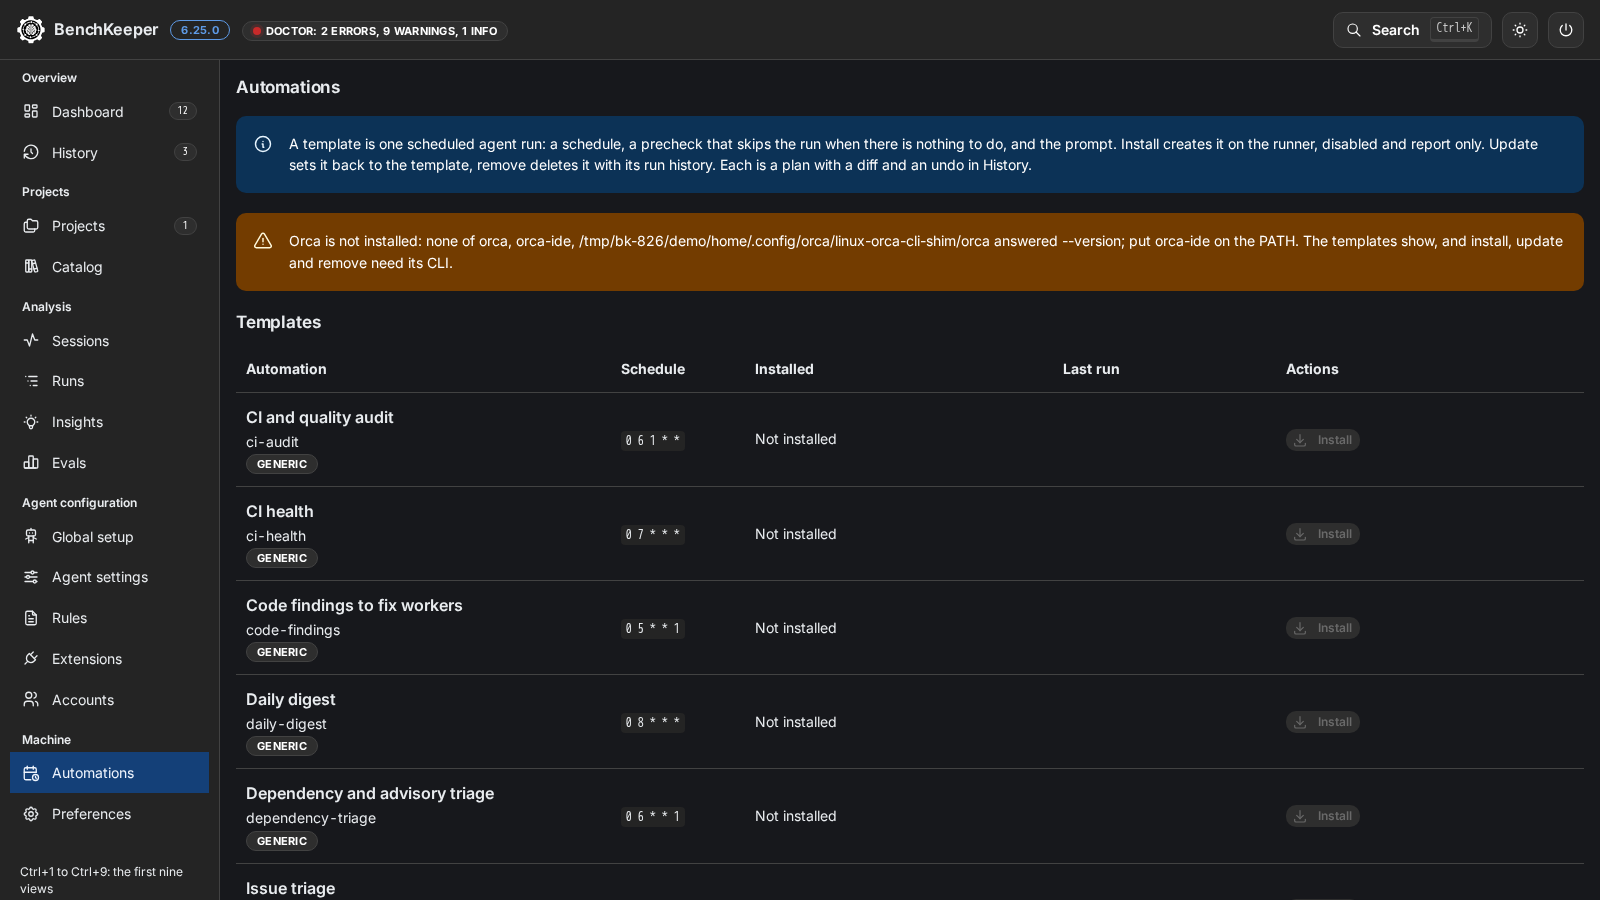
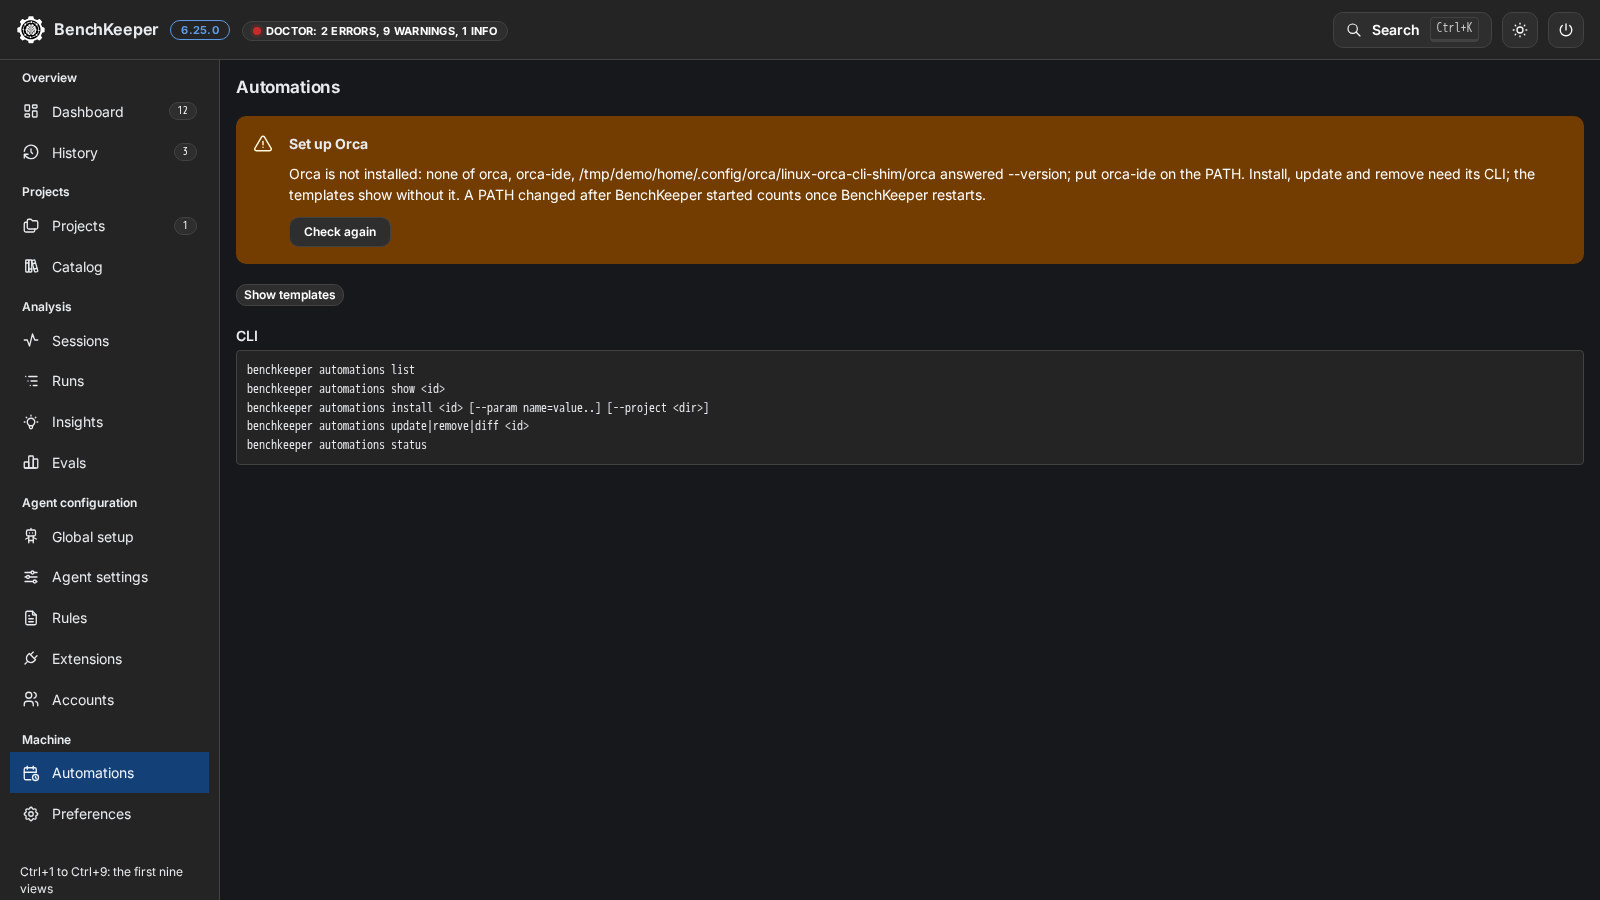
feat(app): one setup panel in Automations when the runner is missing (#845)
* feat(app): one setup panel in Automations when the runner is missing

Without the runner the view shows one panel with the runner's note (the
setup step) and a Check again button; the explanation of templates and
the templates table move behind Show templates. With the runner present
the view is unchanged.

Check again asks the server for a fresh read (fresh=1), since the
automations view is otherwise kept for 15 seconds.

Refs #808

* fix(app): focus the templates after Check again finds the runner, and note the restart a PATH change needs

Refs #808

diff --git a/app/ui/automations.jsx b/app/ui/automations.jsx
@@ -3,7 +3,7 @@ import { IconDownload, IconRefresh, IconTrash } from '@tabler/icons-react';
 import { useEffect, useRef, useState } from 'react';
 import { api } from './api.js';
 import { Cli, Plan, PlanClose, PlanDropped, Section, usePlanRunning } from './parts.jsx';
-import { Dot, Loading, Note, icon, useApi } from './shell.jsx';
+import { Dot, Folded, Loading, Note, icon, useAnnounce, useApi } from './shell.jsx';
 
 const TIER = { generic: 'generic', user: 'private' };
 const STATE = { current: ['teal', 'matches the template'], outdated: ['yellow', 'template changed'], modified: ['yellow', 'changed on the runner'], removed: ['red', 'gone from the runner'], unknown: ['gray', 'unknown'] };
@@ -78,49 +78,73 @@ export function Automations({ overview, refresh }) {
     try { const p = await api('/api/automations-plan', body); if (idle()) { setPending({ plan: p, why: `You asked to ${body.op} this automation in Automations.` }); setForm(null); } } catch (e) { setError(e.message); }
   };
   const done = () => { state.reload(); refresh(); };
+  const [checking, setChecking] = useState(false);
+  const [found, setFound] = useState(null);
+  const [status, announce] = useAnnounce();
+  // The server keeps the view for 15 seconds; Check again reads the runner anew.
+  const check = () => {
+    setChecking(true);
+    api('/api/automations?fresh=1').then((d) => d.runner.installed && setFound(d.runner.name), () => {}).finally(() => { setChecking(false); state.reload(); });
+  };
+  // Check again found the runner and its button is gone: focus goes to the templates once they show.
+  useEffect(() => {
+    if (found && state.data?.runner.installed) { announce('automations-templates-title', `${found} found`); setFound(null); }
+  }, [found, state.data, announce]);
+  const intro = <Note>A template is one scheduled agent run: a schedule, a precheck that skips the run when there is nothing to do, and the prompt. Install creates it on the runner, disabled and report only. Update sets it back to the template, remove deletes it with its run history. Each is a plan with a diff and an undo in History.</Note>;
   return (
     <Stack gap="lg">
-      <Note>A template is one scheduled agent run: a schedule, a precheck that skips the run when there is nothing to do, and the prompt. Install creates it on the runner, disabled and report only. Update sets it back to the template, remove deletes it with its run history. Each is a plan with a diff and an undo in History.</Note>
+      {status}
       {error && <Note color="red" title="Not planned">{error}</Note>}
       <Loading state={state} label="automations">
         {(data) => {
           const open = data.automations.find((a) => a.id === form);
+          const templates = (
+            <Section title="Templates" id="automations-templates">
+              {data.automations.length === 0
+                ? <Text>No template yet. Put your own in <Code>automations/</Code> of the config folder.</Text>
+                : (
+                  <Table.ScrollContainer minWidth={760} scrollAreaProps={{ viewportProps: { tabIndex: 0, role: 'region', 'aria-label': 'Automations, scrollable' } }}>
+                    <Table aria-label="Automations" verticalSpacing="sm">
+                      <Table.Thead><Table.Tr><Table.Th>Automation</Table.Th><Table.Th>Schedule</Table.Th><Table.Th>Installed</Table.Th><Table.Th>Last run</Table.Th><Table.Th>Actions</Table.Th></Table.Tr></Table.Thead>
+                      <Table.Tbody>
+                        {data.automations.map((a) => {
+                          const name = a.template?.title ?? a.installed?.name ?? a.id;
+                          return (
+                            <Table.Tr key={a.id}>
+                              <Table.Td><Stack gap={2}><Text fw={600}>{name}</Text><Text size="sm">{a.id}</Text>{a.template ? <Badge variant="default" miw="max-content">{TIER[a.template.tier]}</Badge> : <Badge variant="default" miw="max-content">template missing</Badge>}</Stack></Table.Td>
+                              <Table.Td>{a.template ? <Code>{a.template.schedule || 'on demand'}</Code> : null}</Table.Td>
+                              <Table.Td miw={220}>{a.installed ? <Installed i={a.installed} /> : <Text size="sm">Not installed</Text>}</Table.Td>
+                              <Table.Td miw={160}>{a.installed ? <LastRun runs={a.installed.runs} /> : null}</Table.Td>
+                              <Table.Td miw={220}>
+                                <Group gap="xs">
+                                  {!a.installed && a.template && <Button size="compact-xs" leftSection={icon(IconDownload)} aria-label={`Install ${name}`} disabled={!data.runner.installed || !a.template.schedule || !a.template.precheck.trim()} onClick={() => setForm(a.id)}>Install</Button>}
+                                  {a.installed?.state === 'removed' && a.template && <Button size="compact-xs" leftSection={icon(IconDownload)} aria-label={`Install ${name} again`} disabled={!data.runner.installed} onClick={() => setForm(a.id)}>Install again</Button>}
+                                  {a.installed && a.installed.state !== 'removed' && <Button size="compact-xs" variant="default" leftSection={icon(IconRefresh)} aria-label={`Update ${name}`} disabled={!data.runner.installed || !a.template} onClick={() => plan({ op: 'update', id: a.id })}>Update</Button>}
+                                  {a.installed && <Button size="compact-xs" variant="default" color="red" leftSection={icon(IconTrash)} aria-label={`Remove ${name}`} disabled={!data.runner.installed} onClick={() => plan({ op: 'remove', id: a.id })}>Remove</Button>}
+                                </Group>
+                              </Table.Td>
+                            </Table.Tr>
+                          );
+                        })}
+                      </Table.Tbody>
+                    </Table>
+                  </Table.ScrollContainer>
+                )}
+            </Section>
+          );
           return (
             <Stack gap="lg">
-              {!data.runner.installed && <Note color="yellow">{data.runner.note}. The templates show, and install, update and remove need its CLI.</Note>}
+              {/* Without the runner its one setup step leads; the templates and what they are wait behind Show templates. */}
+              {data.runner.installed ? intro : (
+                <Note color="yellow" title={`Set up ${data.runner.name}`} styles={{ title: { color: 'var(--mantine-color-text)' } }}>
+                  <Stack gap="sm">
+                    <Text size="sm">{data.runner.note}. Install, update and remove need its CLI; the templates show without it. A PATH changed after BenchKeeper started counts once BenchKeeper restarts.</Text>
+                    <Group><Button size="xs" variant="default" onClick={check} loading={checking || state.loading}>Check again</Button></Group>
+                  </Stack>
+                </Note>
+              )}
               {data.errors.map((e) => <Note color="red" title="Template not loaded" key={e.file}><Code style={{ overflowWrap: 'anywhere' }}>{e.file}</Code>: {e.message}</Note>)}
-              <Section title="Templates">
-                {data.automations.length === 0
-                  ? <Text>No template yet. Put your own in <Code>automations/</Code> of the config folder.</Text>
-                  : (
-                    <Table.ScrollContainer minWidth={760} scrollAreaProps={{ viewportProps: { tabIndex: 0, role: 'region', 'aria-label': 'Automations, scrollable' } }}>
-                      <Table aria-label="Automations" verticalSpacing="sm">
-                        <Table.Thead><Table.Tr><Table.Th>Automation</Table.Th><Table.Th>Schedule</Table.Th><Table.Th>Installed</Table.Th><Table.Th>Last run</Table.Th><Table.Th>Actions</Table.Th></Table.Tr></Table.Thead>
-                        <Table.Tbody>
-                          {data.automations.map((a) => {
-                            const name = a.template?.title ?? a.installed?.name ?? a.id;
-                            return (
-                              <Table.Tr key={a.id}>
-                                <Table.Td><Stack gap={2}><Text fw={600}>{name}</Text><Text size="sm">{a.id}</Text>{a.template ? <Badge variant="default" miw="max-content">{TIER[a.template.tier]}</Badge> : <Badge variant="default" miw="max-content">template missing</Badge>}</Stack></Table.Td>
-                                <Table.Td>{a.template ? <Code>{a.template.schedule || 'on demand'}</Code> : null}</Table.Td>
-                                <Table.Td miw={220}>{a.installed ? <Installed i={a.installed} /> : <Text size="sm">Not installed</Text>}</Table.Td>
-                                <Table.Td miw={160}>{a.installed ? <LastRun runs={a.installed.runs} /> : null}</Table.Td>
-                                <Table.Td miw={220}>
-                                  <Group gap="xs">
-                                    {!a.installed && a.template && <Button size="compact-xs" leftSection={icon(IconDownload)} aria-label={`Install ${name}`} disabled={!data.runner.installed || !a.template.schedule || !a.template.precheck.trim()} onClick={() => setForm(a.id)}>Install</Button>}
-                                    {a.installed?.state === 'removed' && a.template && <Button size="compact-xs" leftSection={icon(IconDownload)} aria-label={`Install ${name} again`} disabled={!data.runner.installed} onClick={() => setForm(a.id)}>Install again</Button>}
-                                    {a.installed && a.installed.state !== 'removed' && <Button size="compact-xs" variant="default" leftSection={icon(IconRefresh)} aria-label={`Update ${name}`} disabled={!data.runner.installed || !a.template} onClick={() => plan({ op: 'update', id: a.id })}>Update</Button>}
-                                    {a.installed && <Button size="compact-xs" variant="default" color="red" leftSection={icon(IconTrash)} aria-label={`Remove ${name}`} disabled={!data.runner.installed} onClick={() => plan({ op: 'remove', id: a.id })}>Remove</Button>}
-                                  </Group>
-                                </Table.Td>
-                              </Table.Tr>
-                            );
-                          })}
-                        </Table.Tbody>
-                      </Table>
-                    </Table.ScrollContainer>
-                  )}
-              </Section>
+              {data.runner.installed ? templates : <Folded title="Templates" label={['Show templates', 'Hide templates']} name="templates"><Stack gap="lg">{intro}{templates}</Stack></Folded>}
               {open && (
                 <Section title={`Install ${open.template.title}`}>
                   {projects.length

diff --git a/web/src/components/AppPage.tsx b/web/src/components/AppPage.tsx
@@ -156,7 +156,7 @@ export const VIEWS: { id: string; view: string; title: string; shot: string; alt
   },
   {
     id: 'automations', view: 'automations', title: 'Automations', shot: 'automations',
-    alt: 'The Automations view: what a template is, a note that the runner is not installed, then the templates table with each automation\'s name, id and tier, its schedule, whether it is installed, its last run and an Install button.',
+    alt: 'The Automations view without the runner: one panel with the single setup step and a Check again button, a Show templates button for the templates table, then the CLI commands.',
     text: [
       'A template is one scheduled agent run: a schedule, a precheck that skips the run when there is nothing to do, and the prompt. The generic templates come with the app; your own go in automations/ of the config folder.',
       'Install creates the automation on the runner, disabled and report only, in a registered project. Update sets it back to the template, Remove deletes it with its run history. Undo of a removal restores the local record only: the runner keeps no copy, so install it again to create a new automation. Each is a plan with a diff and an undo in History, and the table shows whether the runner\'s copy still matches the template.',
